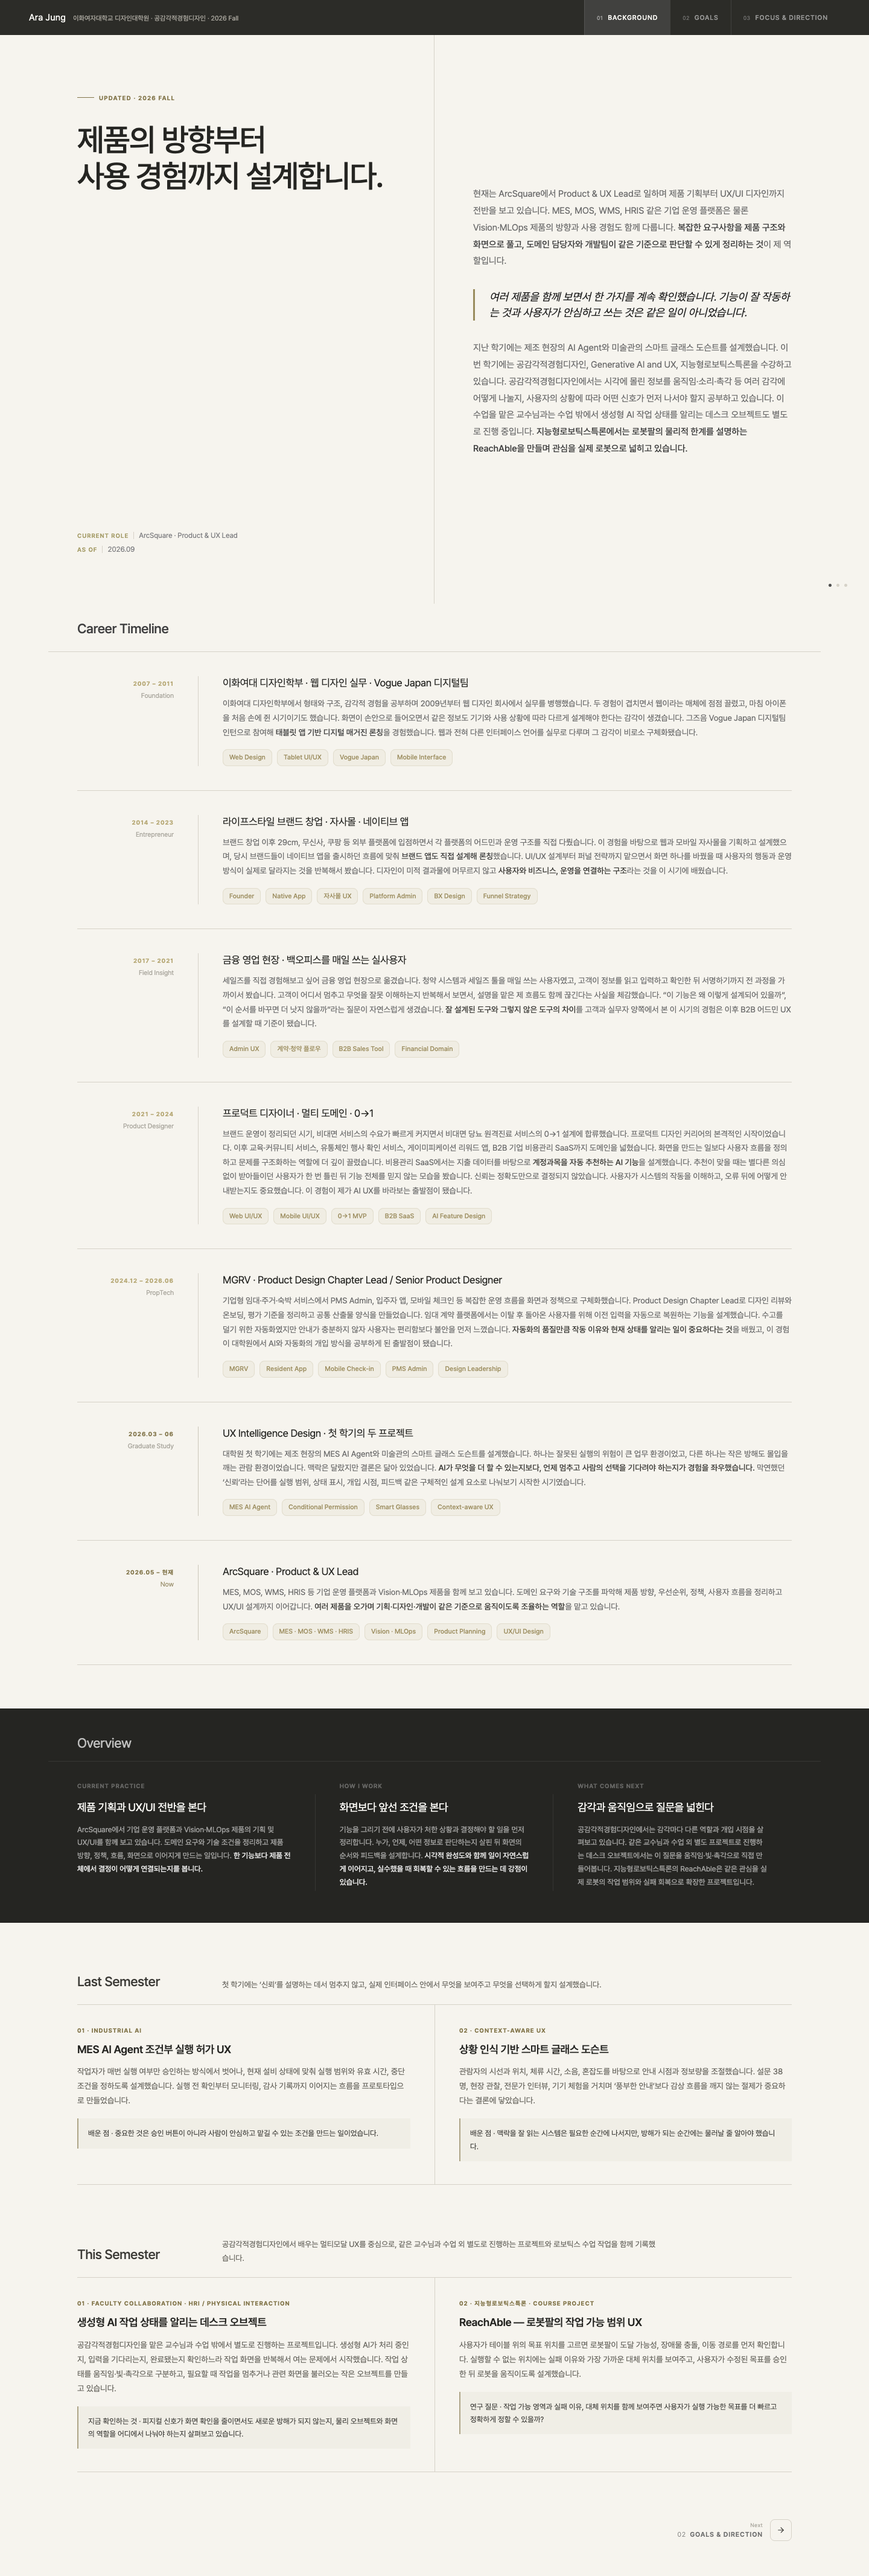
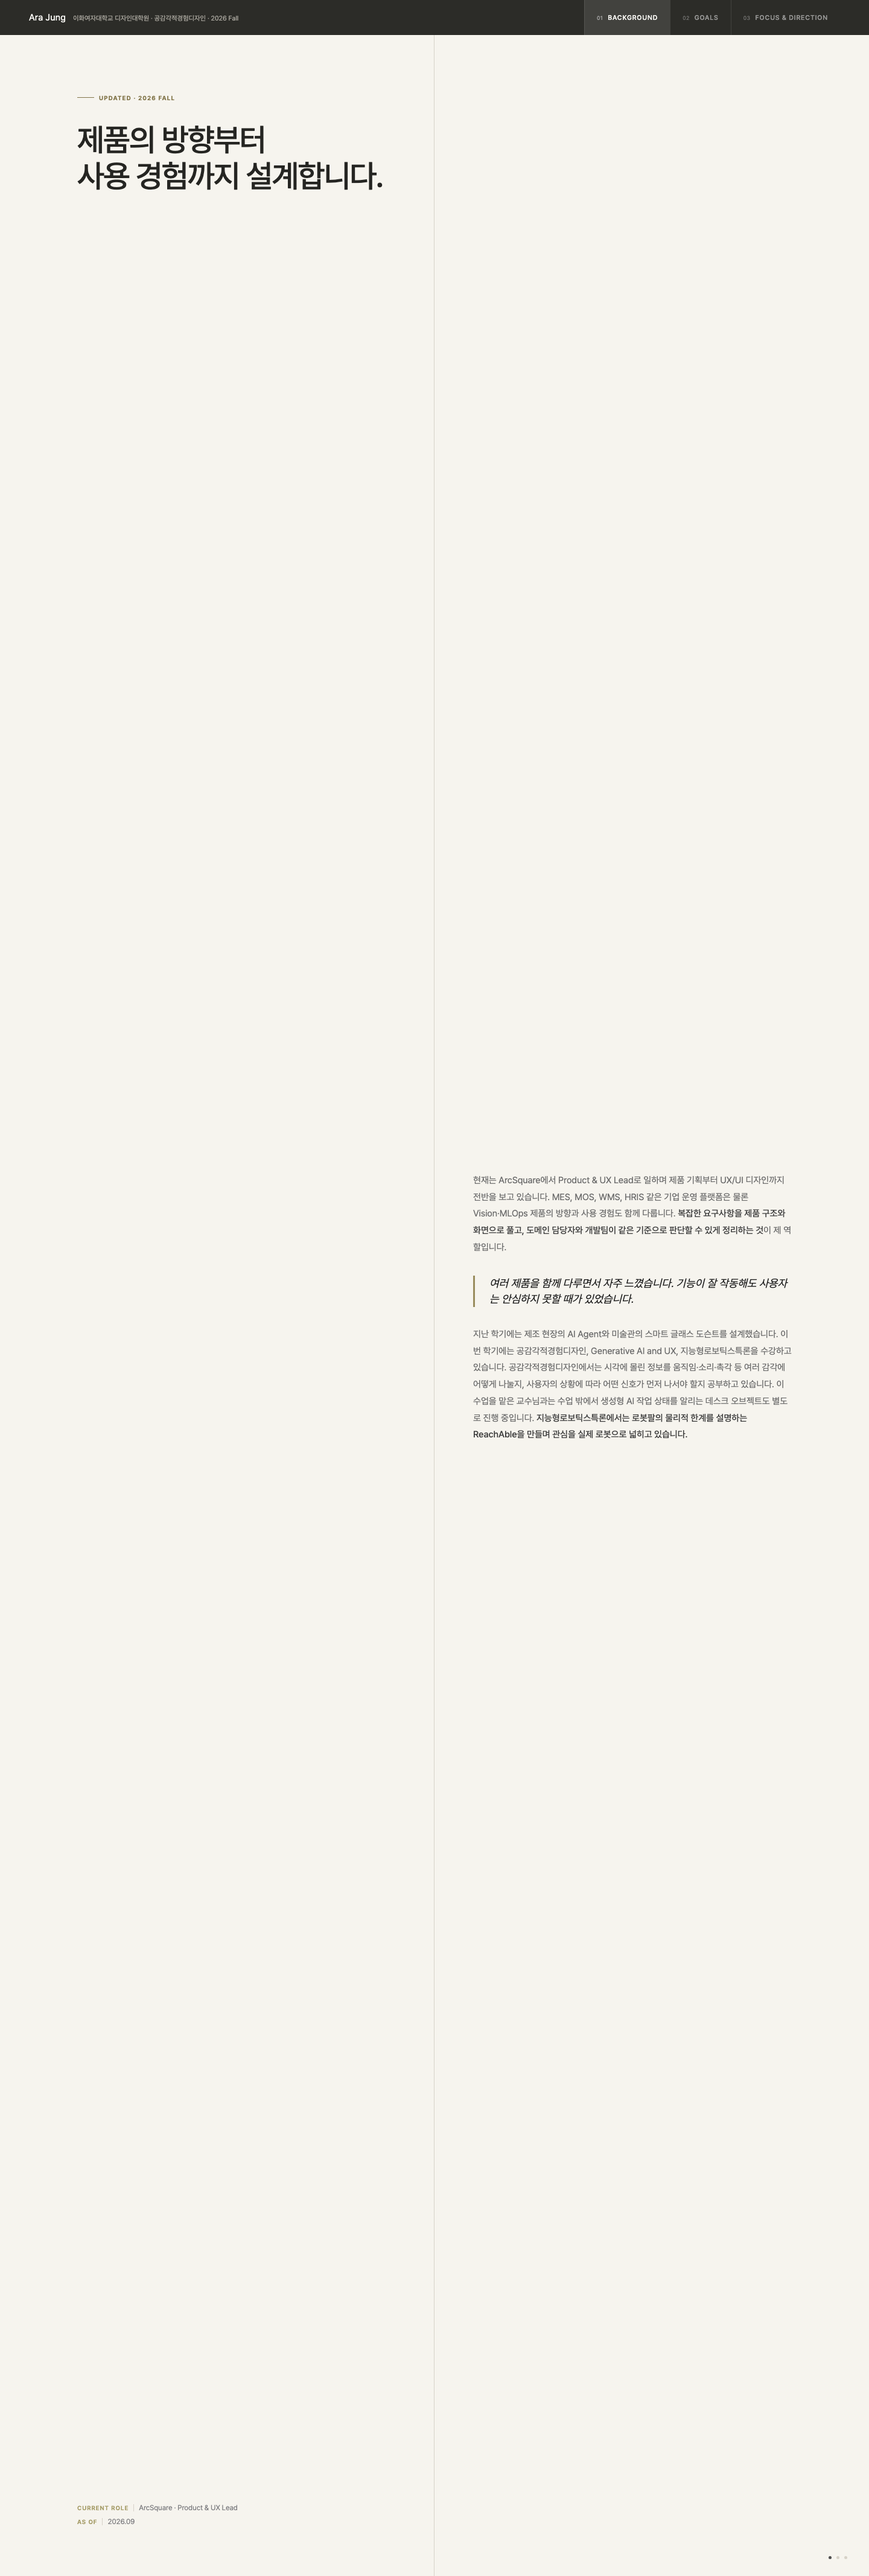
Humanize product trust reflection

diff --git a/index.html b/index.html
@@ -1387,7 +1387,7 @@
         현재는 ArcSquare에서 Product &amp; UX Lead로 일하며 제품 기획부터 UX/UI 디자인까지 전반을 보고 있습니다. MES, MOS, WMS, HRIS 같은 기업 운영 플랫폼은 물론 Vision·MLOps 제품의 방향과 사용 경험도 함께 다룹니다. <strong style="color:#3d3d3d">복잡한 요구사항을 제품 구조와 화면으로 풀고, 도메인 담당자와 개발팀이 같은 기준으로 판단할 수 있게 정리하는 것</strong>이 제 역할입니다.
       </div>
       <div class="hero-intro-pull">
-        여러 제품을 함께 보면서 한 가지를 계속 확인했습니다. 기능이 잘 작동하는 것과 사용자가 안심하고 쓰는 것은 같은 일이 아니었습니다.
+        여러 제품을 함께 다루면서 자주 느꼈습니다. 기능이 잘 작동해도 사용자는 안심하지 못할 때가 있었습니다.
       </div>
       <div class="hero-intro">
         지난 학기에는 제조 현장의 AI Agent와 미술관의 스마트 글래스 도슨트를 설계했습니다. 이번 학기에는 공감각적경험디자인, Generative AI and UX, 지능형로보틱스특론을 수강하고 있습니다. 공감각적경험디자인에서는 시각에 몰린 정보를 움직임·소리·촉각 등 여러 감각에 어떻게 나눌지, 사용자의 상황에 따라 어떤 신호가 먼저 나서야 할지 공부하고 있습니다. 이 수업을 맡은 교수님과는 수업 밖에서 생성형 AI 작업 상태를 알리는 데스크 오브젝트도 별도로 진행 중입니다. <strong style="color:#3d3d3d">지능형로보틱스특론에서는 로봇팔의 물리적 한계를 설명하는 ReachAble을 만들며 관심을 실제 로봇으로 넓히고 있습니다.</strong>
